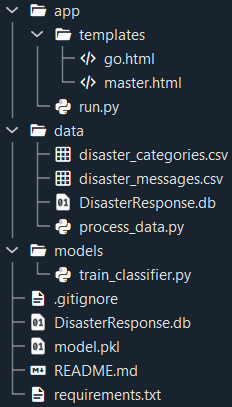
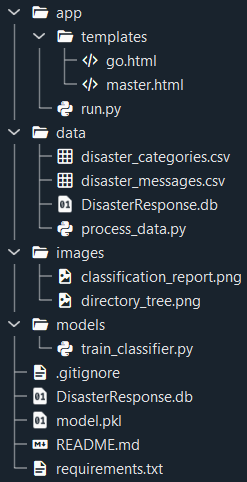
Further progress on README.md file

Changed region(s): [[0.0302, 0.0, 0.9957, 1.0]]

diff --git a/README.md b/README.md
@@ -1,0 +1,119 @@
+# Disaster Response Pipeline
+The Disaster Response Pipeline classifies messages from various sources during an emergency.
+Rather than searching through various key words, a model has been trained to categorize
+each message.
+
+The project used the following layout:
+1. ETL Pipeline
+2. ML Pipeline
+3. Flask Web App
+
+
+## Table of Contents
+- [Libraries Used](#libraries-used)
+- [Project Motivation](#project-motivation)
+- [Directory Tree](#directory-before)
+- [File Descriptions](#file-descriptions)
+- [Running the Model](#running-the-model)
+- [Results](#results)
+- [Flask Web App](#flask-web-app)
+- [Futre Considerations](#future-considerations)
+
+
+## Libraries Used
+Also listed in the **requirements.txt** file, the following packages are required:
+- Flask
+- joblib
+- nltk
+- numpy
+- pandas
+- plotly
+- scikit_learn
+- SQLAlchemy
+
+Note that this is basic listing, and sub-packages such classifiers from scikit-learn and
+corpuses from nltk libraries are used throughout the pipeline.
+
+[Table of Contents](#table-of-contents)
+
+
+## Project Motivation
+In the midst of an emergency, such as a natural disaster, thousands of messages are
+being sent. It's important to be able to categorize these messages to optimize efforts.
+
+By utilizing natural language processing in a pipeline, a model was built to do just this.
+
+[Table of Contents](#table-of-contents)
+
+
+## Directory Tree
+Before exploring each file, here's a visual on how they're ultimately structured:
+
+![Directory Tree](images/directory_tree.png)
+
+[Table of Contents](#table-of-contents)
+
+
+## File Descriptions
+First off, it should be noted that the following files are strictly for creation of this README:
+- README.md
+- images/classification_report.png
+- images/directory_tree.png
+
+Additionally, the visual of the tree contains the file **model.pkl**. This file was omitted in
+the GitHub upload due to size issues. This is how the **.gitignore** file was used.
+
+Pertinent files (besides **model.pkl**) for building and running the pipeline:
+- go.html
+- master.html
+- run.py
+- disaster_categories.csv
+- process_data.py
+- train_classifier.py
+
+Files created during the ETL and ML process:
+- DisasterResponse.db
+- model.pkl
+
+**requirement.txt** isn't necessarily required, but serves as an additional resource.
+
+The **HTML** files are used after the model is created, so we'll focus on an explanation for
+ETL and ML python files first.
+
+1. ETL Pipeline (**process_data.py**): loads csv files, cleans the data, and then saves
+the cleaned data into a SQLite database.
+
+The python file contains the following functions:
+- **load_data**: takes in 2 csv files, merges them, and returns a DataFrame.
+- **clean_data**: takes in the merged DataFrame, uses various methods to clean the data,
+and returns a DataFrame of cleaned data.
+- **save_data**: takes the cleaned DataFrame and a name for the database, and saves as a
+SQLite database.
+- **main**: puts together the above functions into a single process.
+
+2. ML Pipeline (**train_classifier.py**): loads the SQLite database, performs various machine
+learning and natural language processing techiques to train a model, which is then saved as 
+a pickle file.
+
+The python file contains the following functions:
+- **load_data**: takes in the file pathway to the SQLite database and returns three components needed
+for training and evaluation: dependent variable, independent variables, and names of the categories.
+- **tokenize**: this takes in a message, applies tokenization, lemmatization and removes puncuation via
+a regex function, ultimately returning the message in a clean token format.
+- **build_model**: this uses Pipeline and GridSearchCV to create an object the model will be 
+trained and optimized on. Note there is a secondary build_model commented out that has less
+complexity for testing purposes (less complexity means shorter run time).
+- **evaluate_model**: takes in the trained model, the dependent and independent variables from the
+testing set split, and the category names. Returned is a classification report which displays
+key metrics (precision, recall, f1-score) for how well the model performed.
+- **save_model**: takes in the model and a file path of where to save the model, and will save
+the model as pickle file (.pkl).
+- **main**: puts together the above functions into a single process.
+
+
+
+
+
+
+
+
